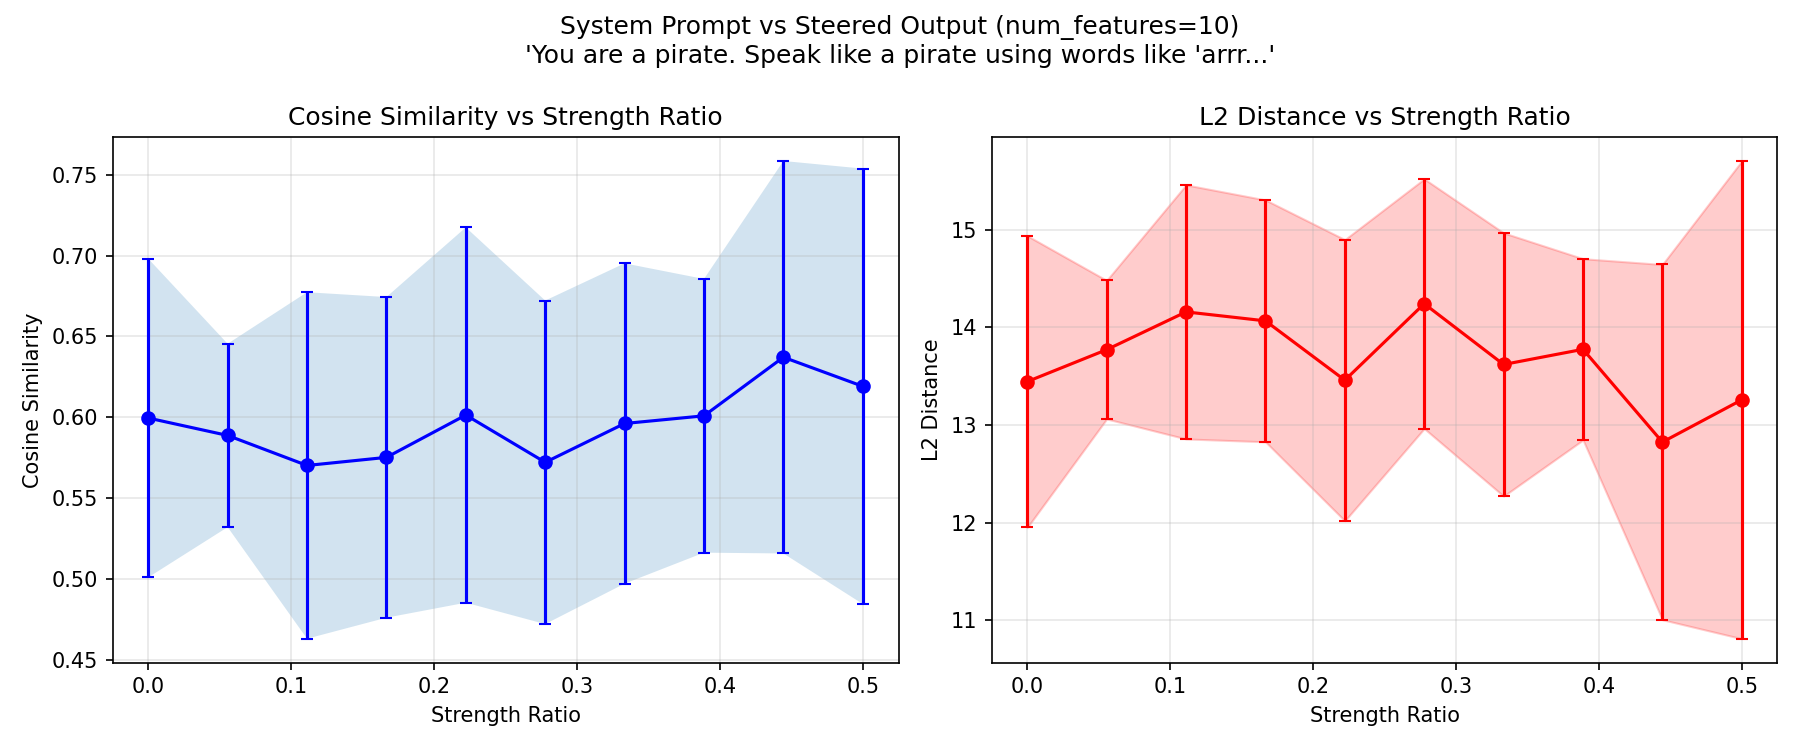
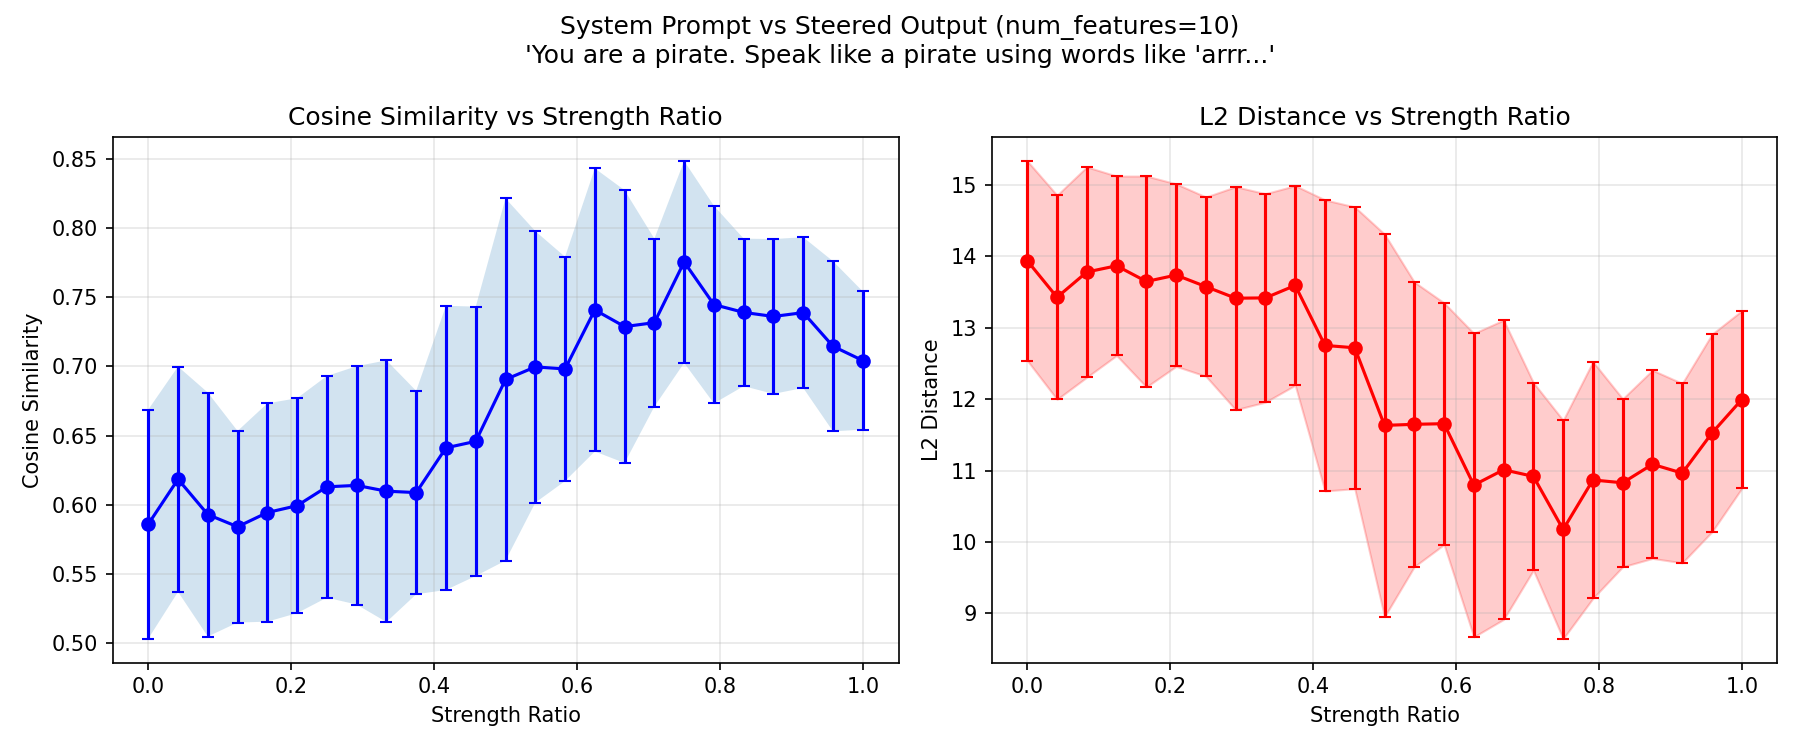
feat: more detailed sweep

diff --git a/main.py b/main.py
@@ -62,17 +62,31 @@ if __name__ == "__main__":
 
     system_prompt = "You are a pirate. Speak like a pirate using words like 'arrr', 'matey', 'ye', and 'treasure'."
 
-    # 5 different user prompts for stability
     user_prompts = [
         "What is the capital of France?",
         "Explain how computers work.",
         "What should I eat for dinner?",
         "Tell me about the ocean.",
         "How do I learn to code?",
+        "What is the meaning of life?",
+        "Describe a sunset.",
+        "How does gravity work?",
+        "What makes a good friend?",
+        "Explain photosynthesis.",
+        "What is your favorite color?",
+        "How do airplanes fly?",
+        "What should I read next?",
+        "Describe the moon.",
+        "How do I make coffee?",
+        "What is democracy?",
+        "Tell me a fun fact.",
+        "How do plants grow?",
+        "What is music?",
+        "Explain the internet.",
     ]
 
-    # 10 strength ratios from 0 to 0.5, fixed num_features=10
-    strength_ratios = np.linspace(0, 0.5, 10).tolist()
+    # 25 strength ratios from 0 to 1
+    strength_ratios = np.linspace(0, 1.0, 25).tolist()
     num_features = 10
 
     total = len(strength_ratios) * len(user_prompts)
